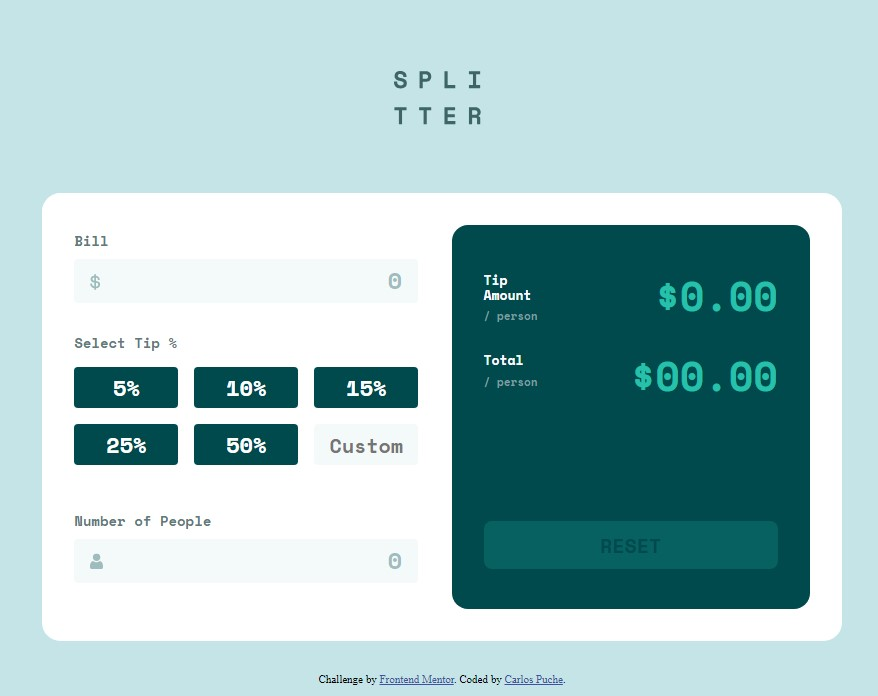
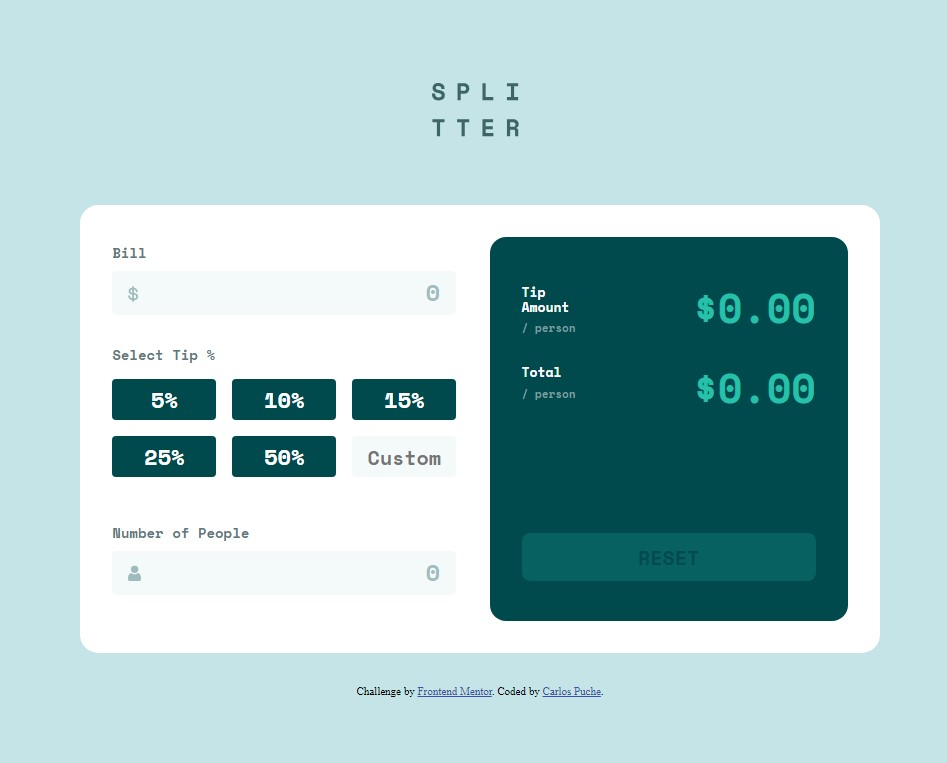
proyectEnd

diff --git a/script.js b/script.js
@@ -1,7 +1,12 @@
 "use strict";
+/************************************* functions ********************************** */
+function functions() {
+    resetAct() // line 101
+    calculations(cachValue(valor)); //line 114  /  line 44
+    writeTip() //line 121
+}
 /************************************* butons events********************************** */
 const buttons = document.querySelectorAll(".act");
-const custom = document.querySelector(".custom");
 let valor = 0;
 let item = [];
 
@@ -11,20 +16,20 @@ buttons.forEach(function(button){
             button.setAttribute("act", "yes");
             button.classList.replace("button", "buttonAct");    
             item.push(button);
-            checkValue(button)
-            unico();   
-            resetAct()
-            calculations(cachValue(valor));
-            writeTip()
+            if (button.getAttribute("placeholder")) {
+                checkValue(button)//line 44
+            }
+            else{
+                valor = button.id
+            }
         }
          else{
             button.removeAttribute("act");
             button.classList.replace("buttonAct", "button");  
             valor = 0
-            resetAct()
-            unico()
-            writeTip()
         }
+        unico();   //line 36
+        functions() // line 3
     })
 })
 
@@ -37,36 +42,27 @@ function unico(){
 }
 
 function cachValue(valor) {
-    if (valor => 0) {
+    if (valor >= 0) {
        let  tip = valor/100;
         return tip;
     }
 } 
 
 function checkValue(button){
-    if (button.getAttribute("placeholder")) {
-        button.addEventListener("blur",()=>{
+        button.addEventListener("input",()=>{
             valor = button.value
-            console.log("yes");
-            unico();   
-            resetAct()
-            calculations(cachValue(valor));
-            writeTip()
+            unico(); //line 36  
+            functions() // line 3
         })
-    }else{
-        valor = button.id
-    }
 }
-/********************************* alert required ******************************************** */
+/********************************* input events ******************************************** */
 let input1 = document.querySelector(".number");
 let input2 = document.getElementById("input2");
 let spanHidden = document.getElementById("span_hidden");
 
-input1.addEventListener("blur", function (event) {
-    required()
-    resetAct();
-    calculations(cachValue(valor));
-    writeTip()
+input1.addEventListener("input", function (event) {
+    required() // line 81
+    functions() // line 3
   }, true);
 
 input2.addEventListener("click", ()=>{
@@ -75,12 +71,16 @@ input2.addEventListener("click", ()=>{
 } )
 input2.addEventListener("blur", function (event) {
     if (!input2.value) {
-        required()
+        required() // line 81
     }
     if (valor == 0) {
         alert("It is necessary to specify the amount of the tip")
     }
   }, true);
+  
+input2.addEventListener("input", ()=>{
+    functions() // line 3 
+})
 
 function required() {
     if (input1.value.length > 0 && input2.value.length == 0) {
@@ -93,11 +93,6 @@ const reset = document.getElementById("reset");
 const label1 = document.getElementById("label1");
 const label2 = document.getElementById("label2");
 
-input2.addEventListener("blur", ()=>{
-    resetAct();
-    calculations(cachValue(valor));
-    writeTip()
-})
 reset.addEventListener("click", ()=>{
     label1.innerHTML = "0.00";
     label2.innerHTML = "0.00";
@@ -120,7 +115,7 @@ function calculations(tip) {
     if (input1.value && input2.value && valor) {
         tipPerson = input1.value * tip / input2.value;
         total =  (tip + 1) * input1.value / input2.value;
-    }else{console.log(("nop"));}
+    }
 }
 
 function writeTip() {

diff --git a/index.html b/index.html
@@ -58,7 +58,7 @@
             <span class="sect2_spanBig space-mono-bold">Total</span>
             <span class="sect2_span space-mono-bold">/ person</span>
           </div>
-          <label class="right space-mono-bold" id="label2">$00.00</label>
+          <label class="right space-mono-bold" id="label2">$0.00</label>
         </div>
         <button type="reset" class="resetOff space-mono-bold" id="reset" disabled>RESET</button>
       </section>

diff --git a/style.css b/style.css
@@ -20,6 +20,7 @@ form{
     align-items: center;
 }
 .sect1_div1, .sect1_div2, .sect1_div3{margin-bottom: 2rem; width: 20rem;}
+
 /************************************ general styles *******************************************/
 .sect1_span, .sect1_span2, .sect2_spanBig{
     color: hsl(186, 14%, 43%);

diff --git a/README.md b/README.md
@@ -30,8 +30,8 @@ Users should be able to:
 
 ### Links
 
-- Solution URL: [Add solution URL here](https://your-solution-url.com)
-- Live Site URL: [Add live site URL here](https://your-live-site-url.com)
+- Solution URL: (https://www.frontendmentor.io/solutions/tip-calculator-app-solution-E9x56vIvTc)
+- Live Site URL: (https://cmp2007.github.io/tip-calculator-app/)
 
 ## My process
 
@@ -41,6 +41,7 @@ Users should be able to:
 - CSS custom properties
 - Flexbox
 - CSS Grid
+- JavaScrip
 - Mobile-first workflow
 
 ### Continued development
@@ -49,6 +50,4 @@ At this time I want to continue doing challenges and practices based on HTML, CS
 
 ## Author
 
-- Website - [Add your name here](https://www.your-site.com)
 - Frontend Mentor - [@yourusername](https://www.frontendmentor.io/profile/yourusername)
-- Twitter - [@yourusername](https://www.twitter.com/yourusername)
